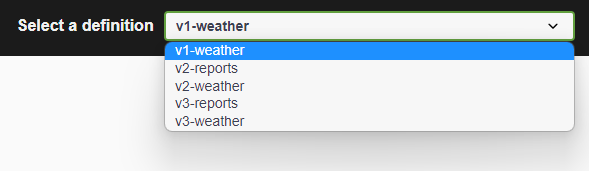
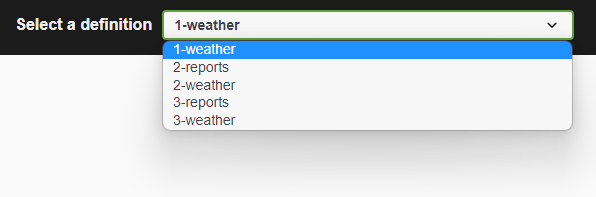
Minor review fixes
## Includes

* Updated screenshots
* Use the correct separator between major version and status ('-', not '.')
* Removed minor version from endpoints and api name

Changed region(s): [[0.0, 0.0292, 1.0, 0.8187]]

diff --git a/ApiVersioning/Controllers/WeatherController.cs b/ApiVersioning/Controllers/WeatherController.cs
@@ -20,8 +20,8 @@ namespace ApiVersioning.Controllers
             _forecaster = forecaster;
         }
 
-        [ApiVersion("2.weather")]
-        [ApiVersion("1.weather")]
+        [ApiVersion("2-weather")]
+        [ApiVersion("1-weather")]
         [Obsolete("Please upgrade to v3, this version will be removed in December 2030.")]
         [HttpGet("forecasts")]
         public IEnumerable<ForecastV1Response> GetV1Forecast()
@@ -32,7 +32,7 @@ namespace ApiVersioning.Controllers
             return ForecastV1Response.From(forecasts);
         }
     
-        [ApiVersion("3.weather")]
+        [ApiVersion("3-weather")]
         [HttpGet("forecasts")]
         public IEnumerable<ForecastResponse> GetForecast(ForecastRange range)
         {

diff --git a/ApiVersioning/Controllers/ReportsController.cs b/ApiVersioning/Controllers/ReportsController.cs
@@ -12,8 +12,8 @@ namespace ApiVersioning.Controllers
     [Route("api/v{version:apiVersion}/[controller]")]
     public class ReportsController : ControllerBase
     {
-        [ApiVersion("2.reports")]
-        [ApiVersion("3.reports")]
+        [ApiVersion("2-reports")]
+        [ApiVersion("3-reports")]
         [HttpGet]
         public IEnumerable<ReportResponse> GetReports(ReportRange range)
         {

diff --git a/ApiVersioning/Infrastructure/Options/ConfigureApiExplorer.cs b/ApiVersioning/Infrastructure/Options/ConfigureApiExplorer.cs
@@ -10,8 +10,8 @@ namespace ApiVersioning.Infrastructure.Options
     {
         public void Configure(ApiExplorerOptions options)
         {
-            options.GroupNameFormat = "S-VV";
-            options.SubstitutionFormat = "VV/S";
+            options.GroupNameFormat = "S-V";
+            options.SubstitutionFormat = "V/S";
             options.SubstituteApiVersionInUrl = true;
         }
     }
